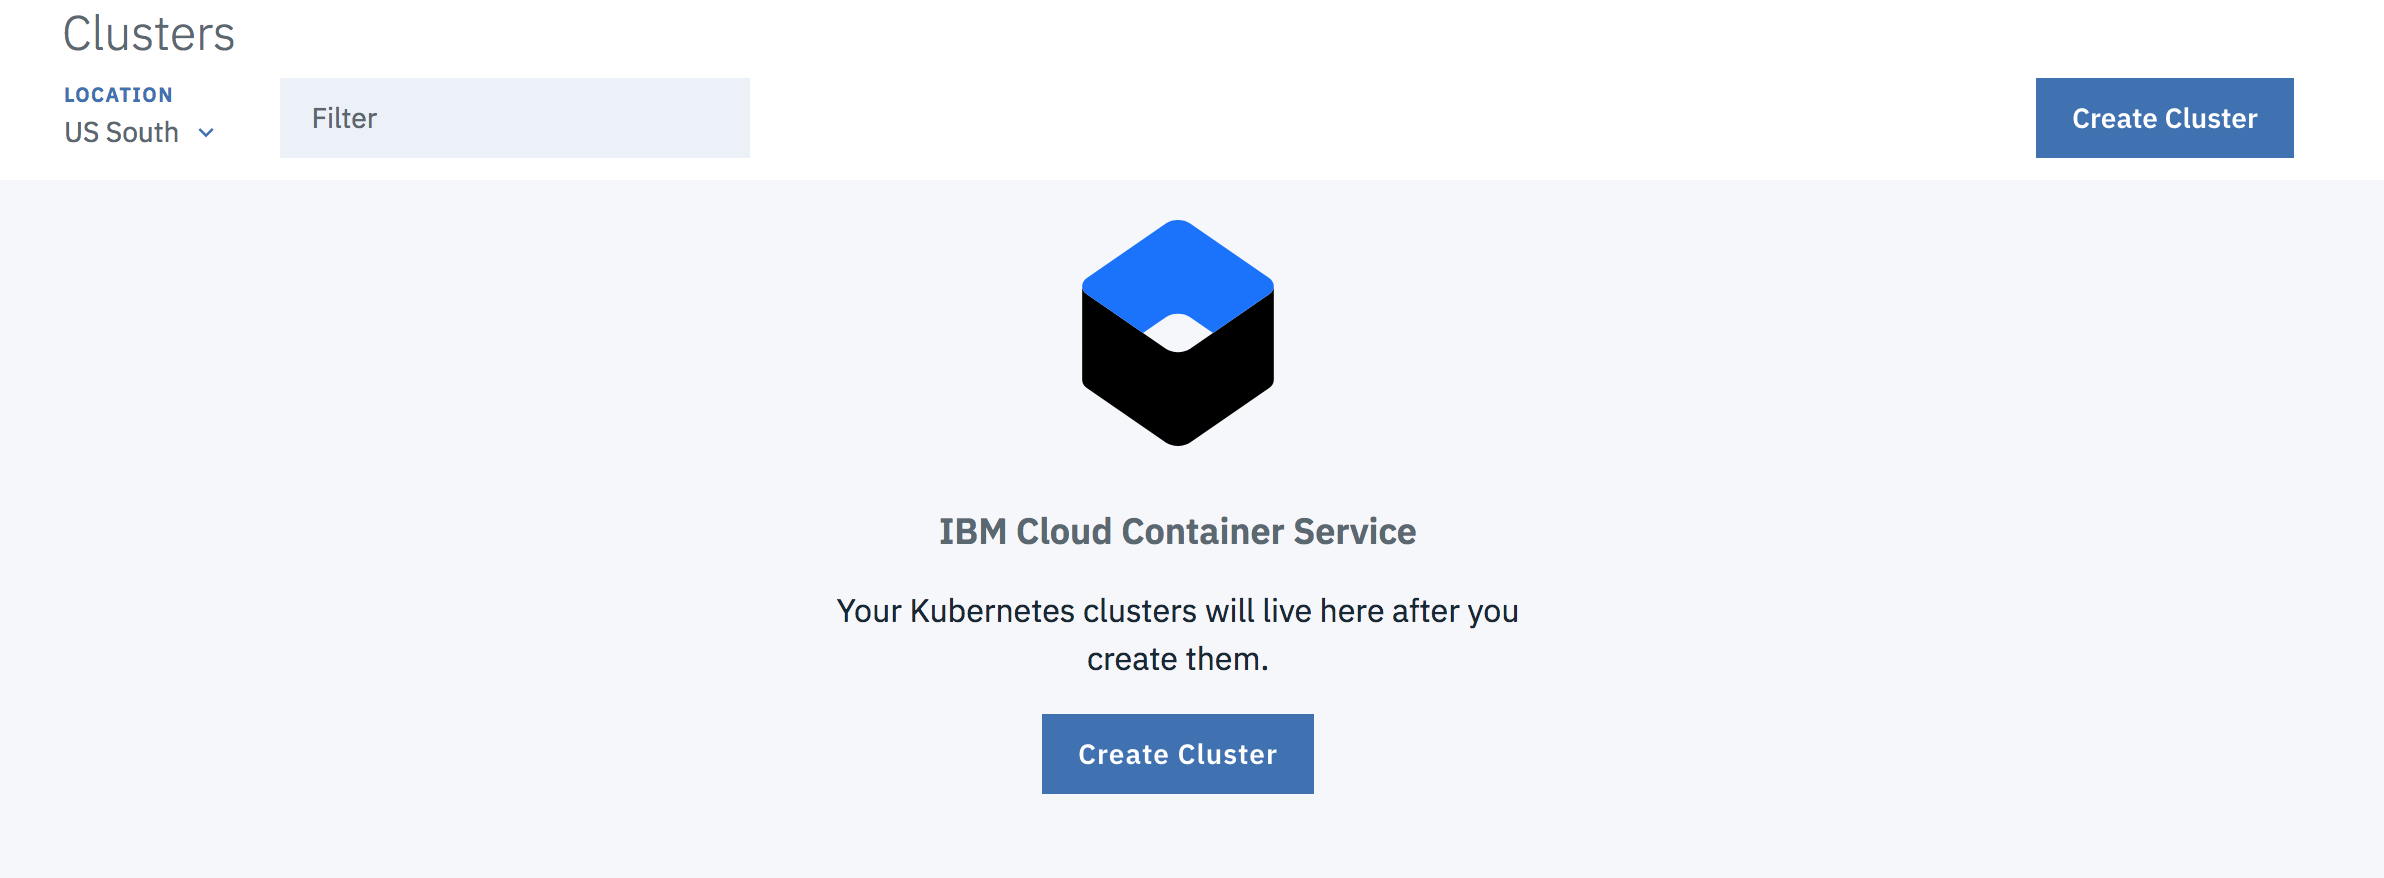
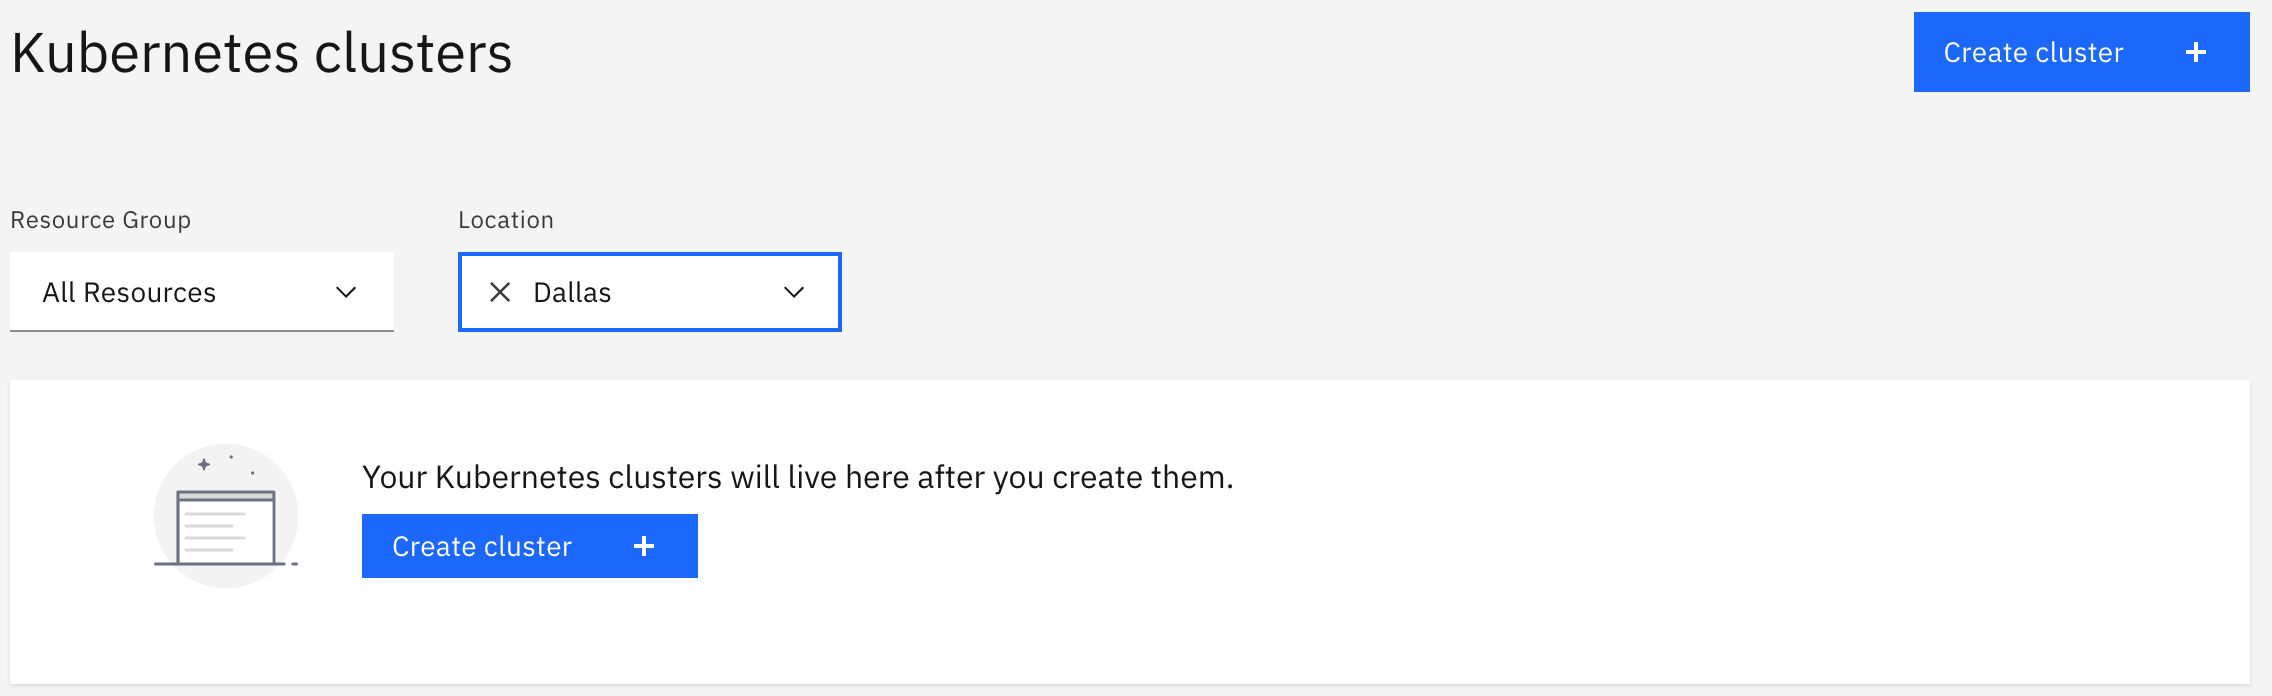
Update kubernetes screenshots (#55)
Updating the screenshots since the UI for IBM Cloud and Kubernetes have changed since this repo was created.

diff --git a/DEPLOY_MODEL.md b/DEPLOY_MODEL.md
@@ -10,11 +10,11 @@
 
 3. On your cluster dashboard, select `Worker Nodes` in the sidebar and take note of the `Public IP Address` for the node.
 
-> Note: The IP address will not be displayed until the cluster is fully deployed.
-
+   > Note: The IP address will not be displayed until the cluster is fully deployed.
+   
    ![Worker IP](doc/source/images/worker-public-ip.png)
 
-4. Click the `Kubernetes Dashboard` button to open the dashboard. Hit the `+ Create` button in the top right corner. Go to `Create an app`.
+4. Click the `Kubernetes Dashboard` button to open the dashboard. Hit the `+ Create` button in the top right corner. Go to `Create from form`.
    Fill in the following fields:
    ```
     App name: <Select a name>
